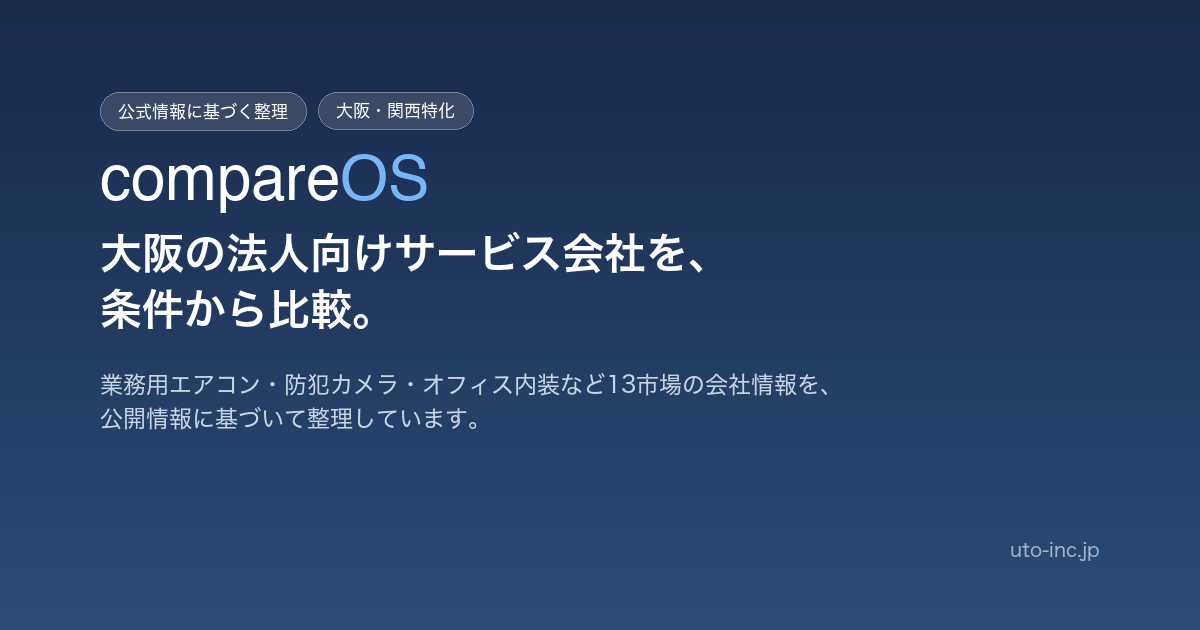
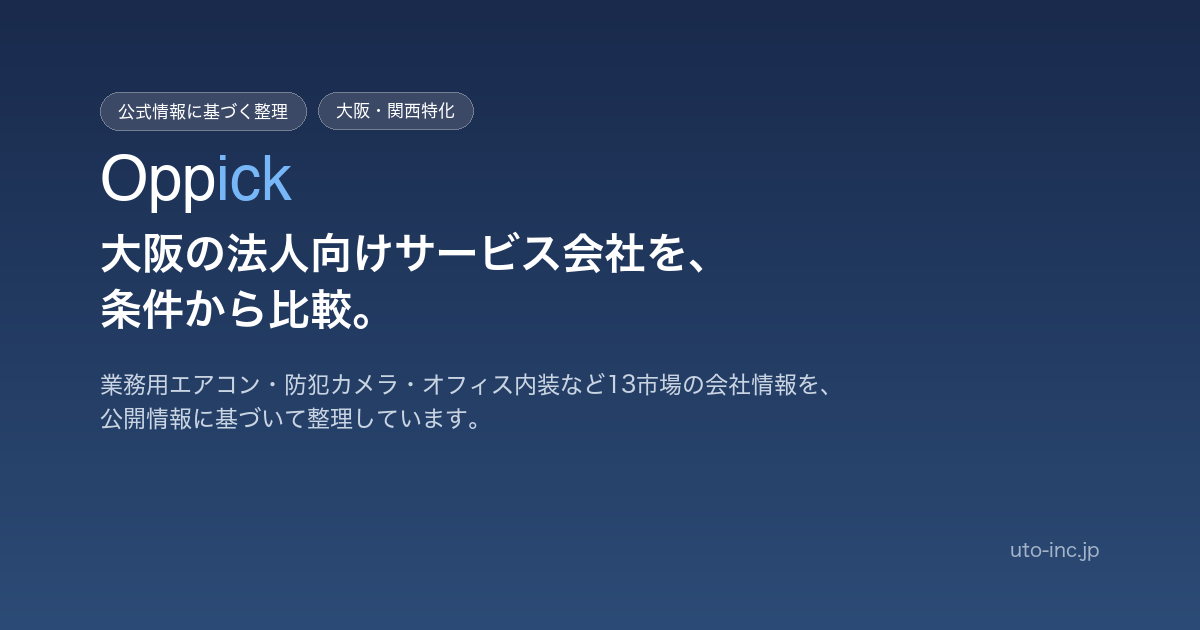
Rebrand site from compareOS to Oppick
Site brand renamed to Oppick across all 36 source/doc files (title tags,
schema.org WebSite/Organization name, og:site_name, header/footer logo,
about/methodology copy, README/CLAUDE.md project docs). Domain stays on
uto-inc.jp for now per decision — only the product-facing brand changes,
not the operating company name or domain.

Also regenerated public/og-image.png with the new wordmark (previously
baked "compareOS" into the image pixels as text, which a find/replace
can't touch).

Changed region(s): [[0.0617, 0.2413, 0.37, 0.3317]]

diff --git a/src/utils/tracking.ts b/src/utils/tracking.ts
@@ -19,7 +19,7 @@ export function trackOutboundClick(params: TrackingParams): void {
   };
 
   // 初稿: コンソール出力
-  console.log('[compareOS] trackOutboundClick:', event);
+  console.log('[Oppick] trackOutboundClick:', event);
 
   // GA4連携（後から有効化）
   // if (typeof window !== 'undefined' && typeof (window as any).gtag === 'function') {

diff --git a/src/utils/seo.ts b/src/utils/seo.ts
@@ -4,7 +4,7 @@
 
 import type { Market, Company, SEOConfig } from '../data/types.js';
 
-const SITE_NAME = 'compareOS 大阪法人向けサービス比較';
+const SITE_NAME = 'Oppick 大阪法人向けサービス比較';
 const SITE_URL = 'https://uto-inc.jp'; // 本番URLに変更
 
 /**

diff --git a/src/data/markets.ts b/src/data/markets.ts
@@ -1,6 +1,6 @@
 /**
  * 12市場データ定義
- * compareOS - 大阪法人向けサービス比較メディア
+ * Oppick - 大阪法人向けサービス比較メディア
  */
 
 import type { Market } from './types.js';

diff --git a/src/data/types.ts b/src/data/types.ts
@@ -1,6 +1,6 @@
 /**
  * 共通TypeScript型定義
- * compareOS - 大阪法人向けサービス比較メディア
+ * Oppick - 大阪法人向けサービス比較メディア
  */
 
 // ------------------------------------

diff --git a/docs/data-schema.md b/docs/data-schema.md
@@ -136,7 +136,7 @@ markets/{market-id}/
     "slug": "/",
     "type": "ranking",
     "targetKeyword": "大阪 結婚相談所 おすすめ",
-    "title": "大阪の結婚相談所おすすめ比較 | compareOS",
+    "title": "大阪の結婚相談所おすすめ比較 | Oppick",
     "description": "",
     "h1": "大阪の結婚相談所を比較",
     "index": true,
@@ -147,7 +147,7 @@ markets/{market-id}/
     "slug": "/price/",
     "type": "comparison",
     "targetKeyword": "大阪 結婚相談所 料金",
-    "title": "大阪の結婚相談所料金比較 | compareOS",
+    "title": "大阪の結婚相談所料金比較 | Oppick",
     "description": "",
     "h1": "大阪の結婚相談所料金を比較",
     "index": true,
@@ -159,7 +159,7 @@ markets/{market-id}/
     "slug": "/area/umeda/",
     "type": "area",
     "targetKeyword": "梅田 結婚相談所",
-    "title": "梅田の結婚相談所 | compareOS",
+    "title": "梅田の結婚相談所 | Oppick",
     "description": "",
     "h1": "梅田エリアの結婚相談所",
     "index": true,
@@ -171,7 +171,7 @@ markets/{market-id}/
     "slug": "/guide/",
     "type": "guide",
     "targetKeyword": "結婚相談所 選び方",
-    "title": "結婚相談所の選び方 | compareOS",
+    "title": "結婚相談所の選び方 | Oppick",
     "description": "",
     "h1": "結婚相談所の選び方",
     "index": true,

diff --git a/sales-research/web-marketing.md b/sales-research/web-marketing.md
@@ -173,4 +173,4 @@
 - 「相談実績2,092件」「取引社数1,400社超」「MEO累計1,000店舗超」等は各社の自己申告値であり、第三者検証はできない旨を明記した
 - 広告費の支払い能力について断定的な記述はしていない（すべて「可能性」「要ヒアリング」で表現）
 - 本資料は6社（サイト掲載企業）のみを対象としており、業務用エアコン市場のような20社超の全候補ランキングにはなっていない点を明記した
-- 本市場をもって、compareOSの11市場すべてでDEMOデータから実在企業への置き換えが完了した
+- 本市場をもって、Oppickの11市場すべてでDEMOデータから実在企業への置き換えが完了した

diff --git a/markets/marriage-agency-osaka/strategy.md b/markets/marriage-agency-osaka/strategy.md
@@ -2,7 +2,7 @@
 
 ## Positioning
 
-既存の比較サイトの多くは「情報源」「確認日」を明記しないランキング記事が中心。compareOSでは、公式サイトで確認できた事実のみを掲載し、不明点は「要問い合わせ」「公式サイトで確認できず」と明示することで、他サイトとの差別化を図る。
+既存の比較サイトの多くは「情報源」「確認日」を明記しないランキング記事が中心。Oppickでは、公式サイトで確認できた事実のみを掲載し、不明点は「要問い合わせ」「公式サイトで確認できず」と明示することで、他サイトとの差別化を図る。
 
 ## Target User
 

diff --git a/README.md b/README.md
@@ -1,4 +1,4 @@
-# compareOS
+# Oppick
 
 大阪を中心に、必要に応じて関西まで対象を広げた地域特化型・比較サイト型Web集客サイト。
 Astro 7 + TypeScript（静的出力）で構築している。

diff --git a/CLAUDE.md b/CLAUDE.md
@@ -1,4 +1,4 @@
-# compareOS
+# Oppick
 
 ## Project Goal
 
